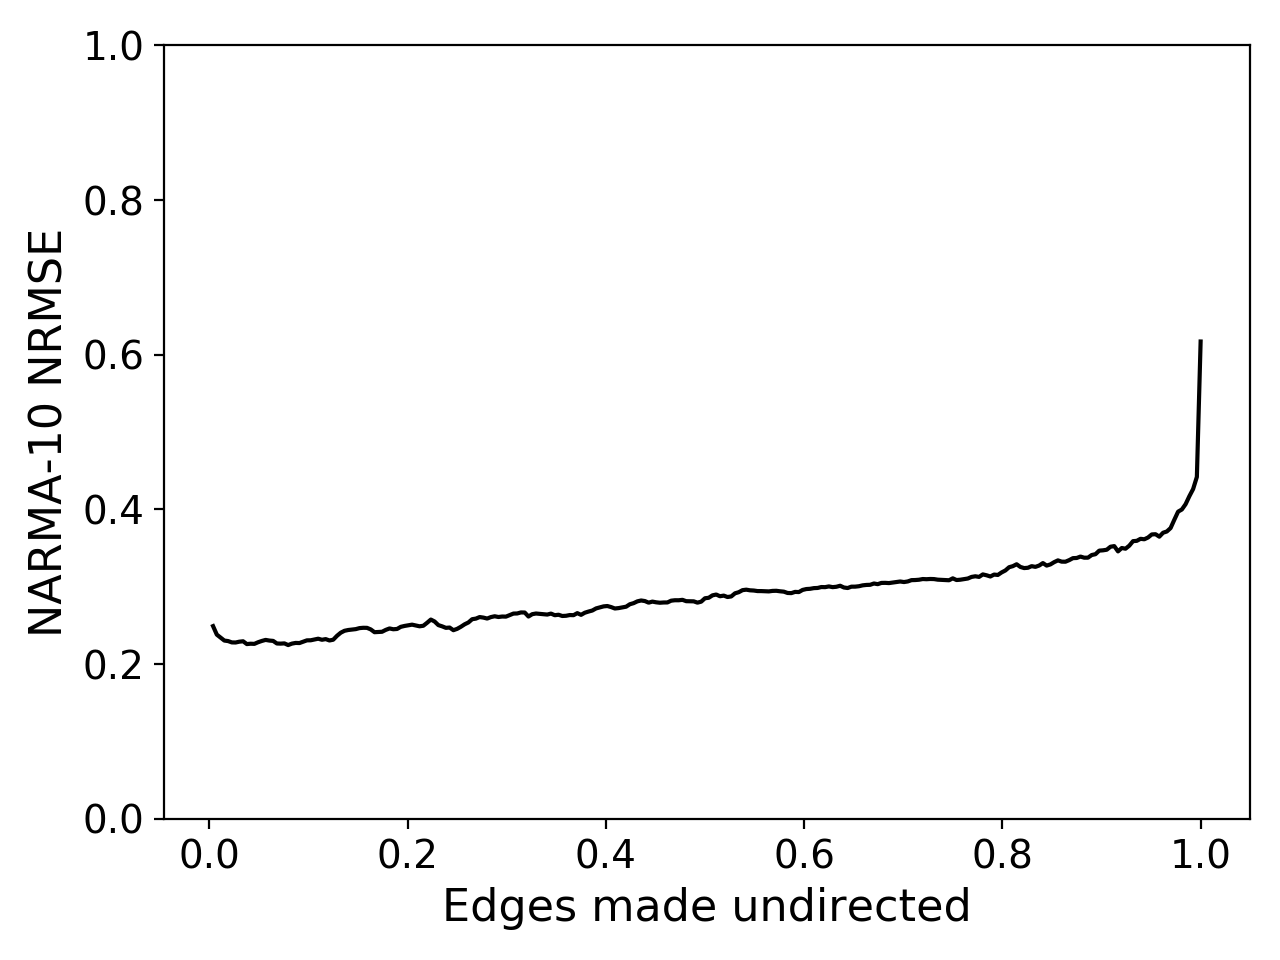
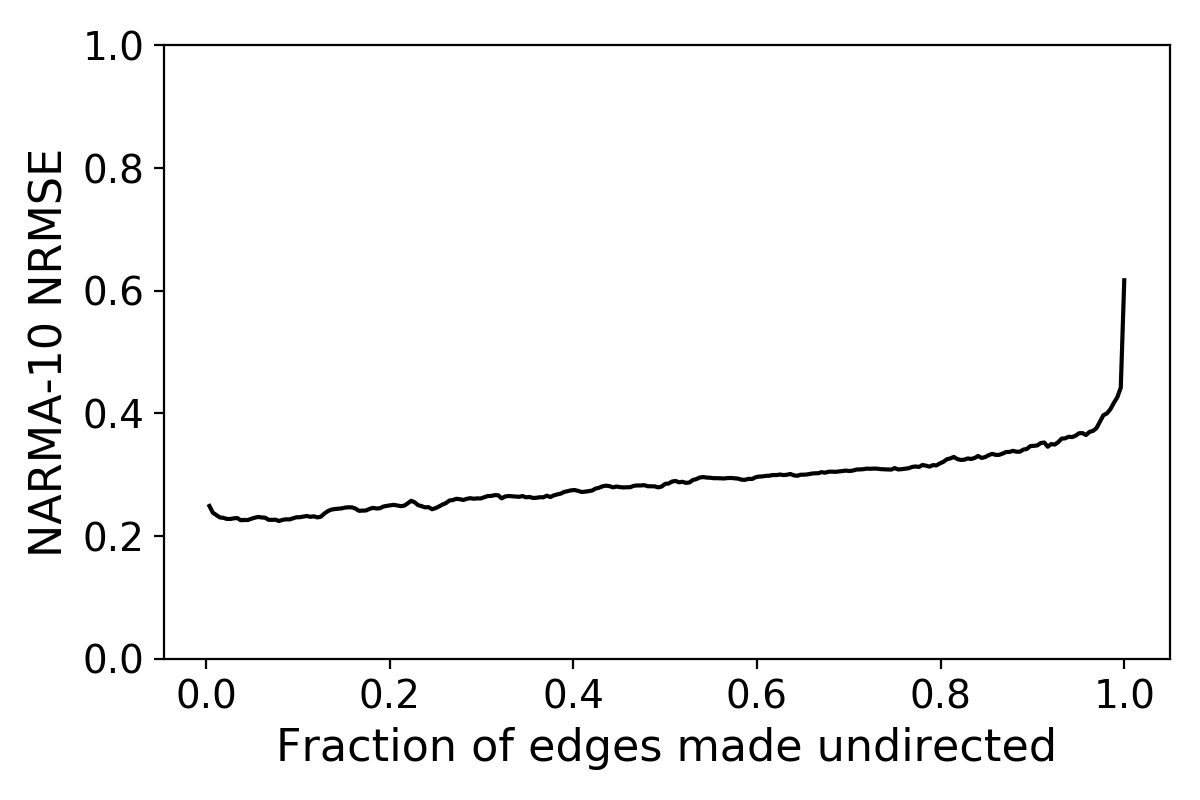
Section about restorating bidirectional edges.

Changed region(s): [[0.0, 0.0312, 0.9867, 0.9688]]

diff --git a/master/sections/4-experiment-b.tex b/master/sections/4-experiment-b.tex
@@ -677,7 +677,13 @@ potential in researching the creation of structured, deterministic reservoirs.
 
 \subsection{Synopsis}
 
-Finally.. somthingsomethin importance physical reservoir computing
+Among the discoveries of our previous experiments, the importance of directed
+edges to create a flow of information is of major relevancy to physical RC
+settings. In this section we analyze the effect of restoring bidirectional edges
+by following the greedy approach in Section \ref{sec:shrink-grow}. A base $12
+\times 12$ square lattice reservoir is generated, and its 264 edges are
+incrementally made bidirectional by choosing the edge causing the least increase
+in error for each iteration.
 
 \subsection{Results and Discussion}
 
@@ -685,20 +691,24 @@ Finally.. somthingsomethin importance physical reservoir computing
   \centering
   \includegraphics[width=3.5in]{figures/undir-performance.png}
   \caption{
-    \textcolor{red}{
-      No caption yet. 12x12 square grid.
-    }
+    NRMSE as a function of the fraction of edges of a square lattice reservoir
+that are changed to be undirected. A $12 \times 12$ lattice is used, starting
+from 264 directed edges.
   }
   \label{fig:undirection-performance}
 \end{figure}
 
-\textcolor{red}{
-  Imagine something similar to that of Figure \ref{fig:dir-lattice}, where now
-only a fraction of the edges are directed again. However, we cannot directly
-compare this to that of a cross section of that plot, as we have changed our
-input scheme to be global, instead of the uniform distribution that was used
-before.
-}
+Results are shown in Figure \ref{fig:undirection-performance}. First, there is a
+small dip in error for the initial 20 or so edges. When an edge goes from
+directed to undirected, its entry in $\mathbf{W}^{out}$ is in practice mirrored
+along the diagonal axis, essentially \textit{adding} an incident edge in the
+opposite direction. When greedily choosing which edges to change, it is
+unsurprising that there are instances where an additional edge is beneficial.
+
+As an increasing fraction of edges made undirected, the reservoir benchmark
+error rises steadily. Performance degrades drastically after about 90\% of edges
+have been changed. Again we see that a non-symmetric weight matrix enables
+richer dynamics, here as a direct consequence of the restored symmetry.
 
 \section{Conclusions}
 

diff --git a/master/sections/4-experiment-a.tex b/master/sections/4-experiment-a.tex
@@ -266,8 +266,8 @@ experiments in this section will use an input scaling of 0.1
     \label{fig:perf-restore-b}
   \end{subfigure}
   \caption{
-    Introducing signed weights RGG reservoirs. Results shown are for undirected
-(a) and directed (b) reservoirs.
+    Introducing signed weights to RGG reservoirs. Results shown are for
+undirected (a) and directed (b) reservoirs.
   }
   \label{fig:perf-restore}
 \end{figure*}

diff --git a/py/notebook.py b/py/notebook.py
@@ -1093,7 +1093,7 @@ def plot_making_edges_undirected_performance():
     plt.plot([n/264 for n in range(1, 265)], nrmses, color='black')
     plt.ylim((0.0, 1.0))
 
-    plt.xlabel('Edges made undirected')
+    plt.xlabel('Fraction of edges made undirected')
     plt.ylabel('NARMA-10 NRMSE')
 
     plt.tight_layout()
